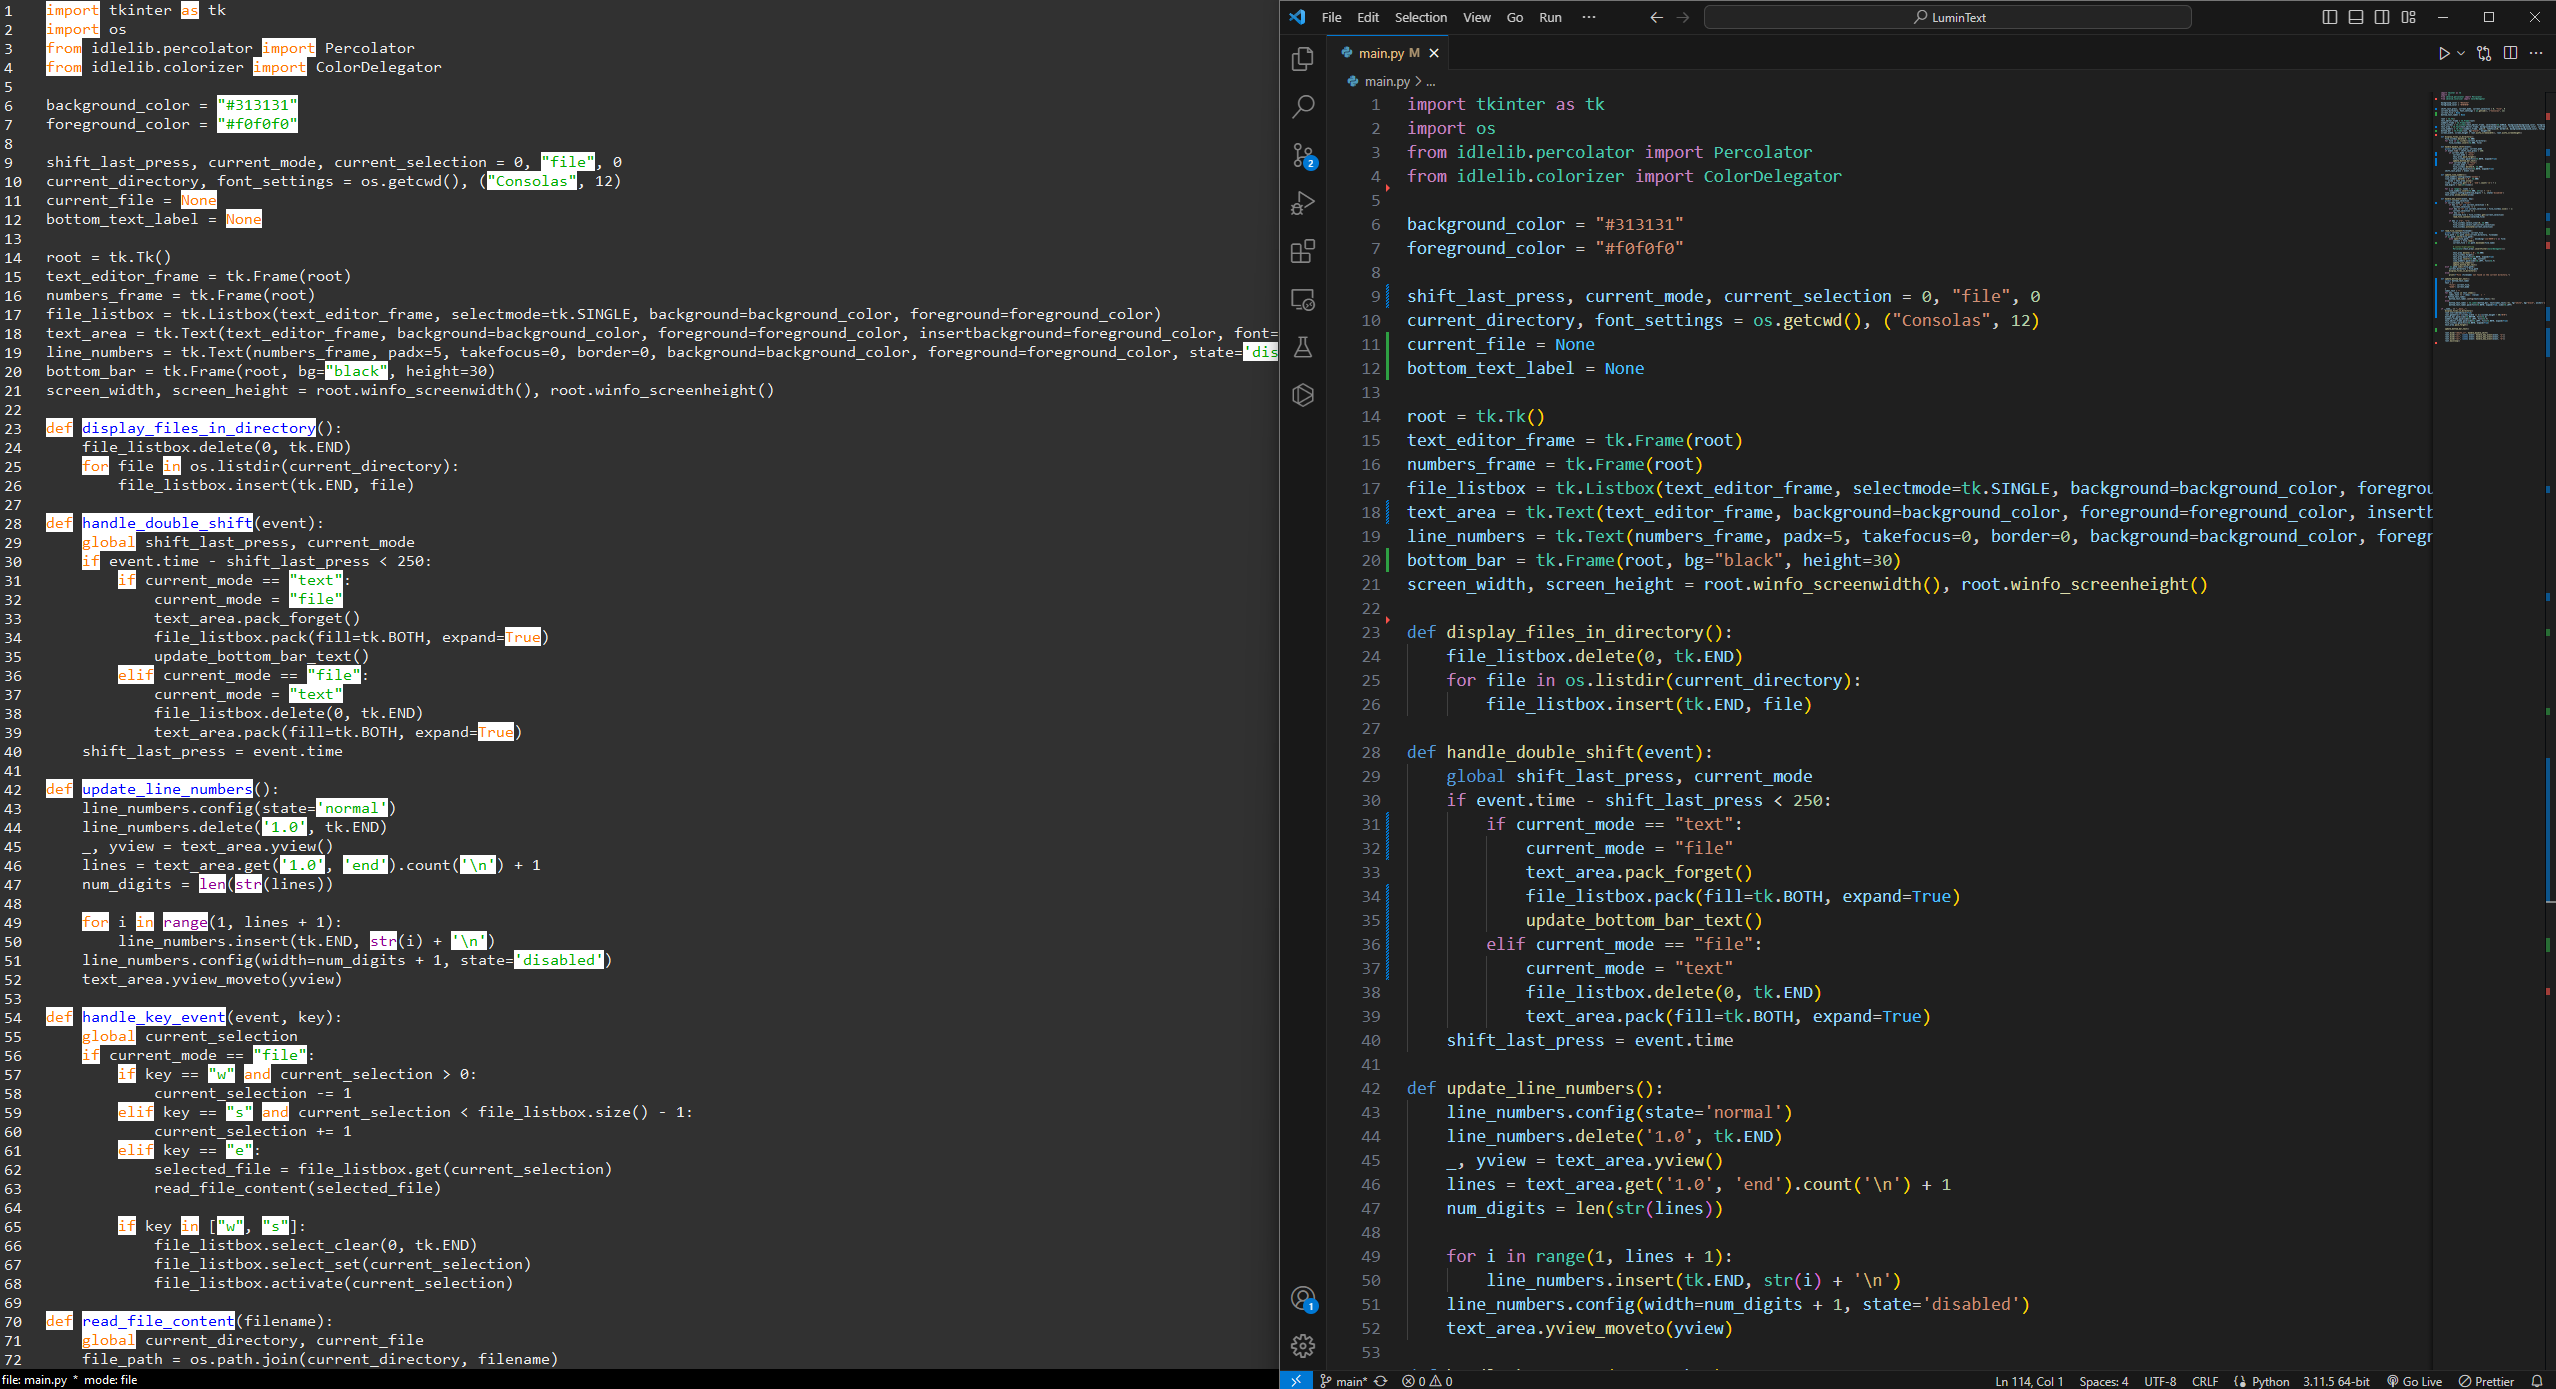
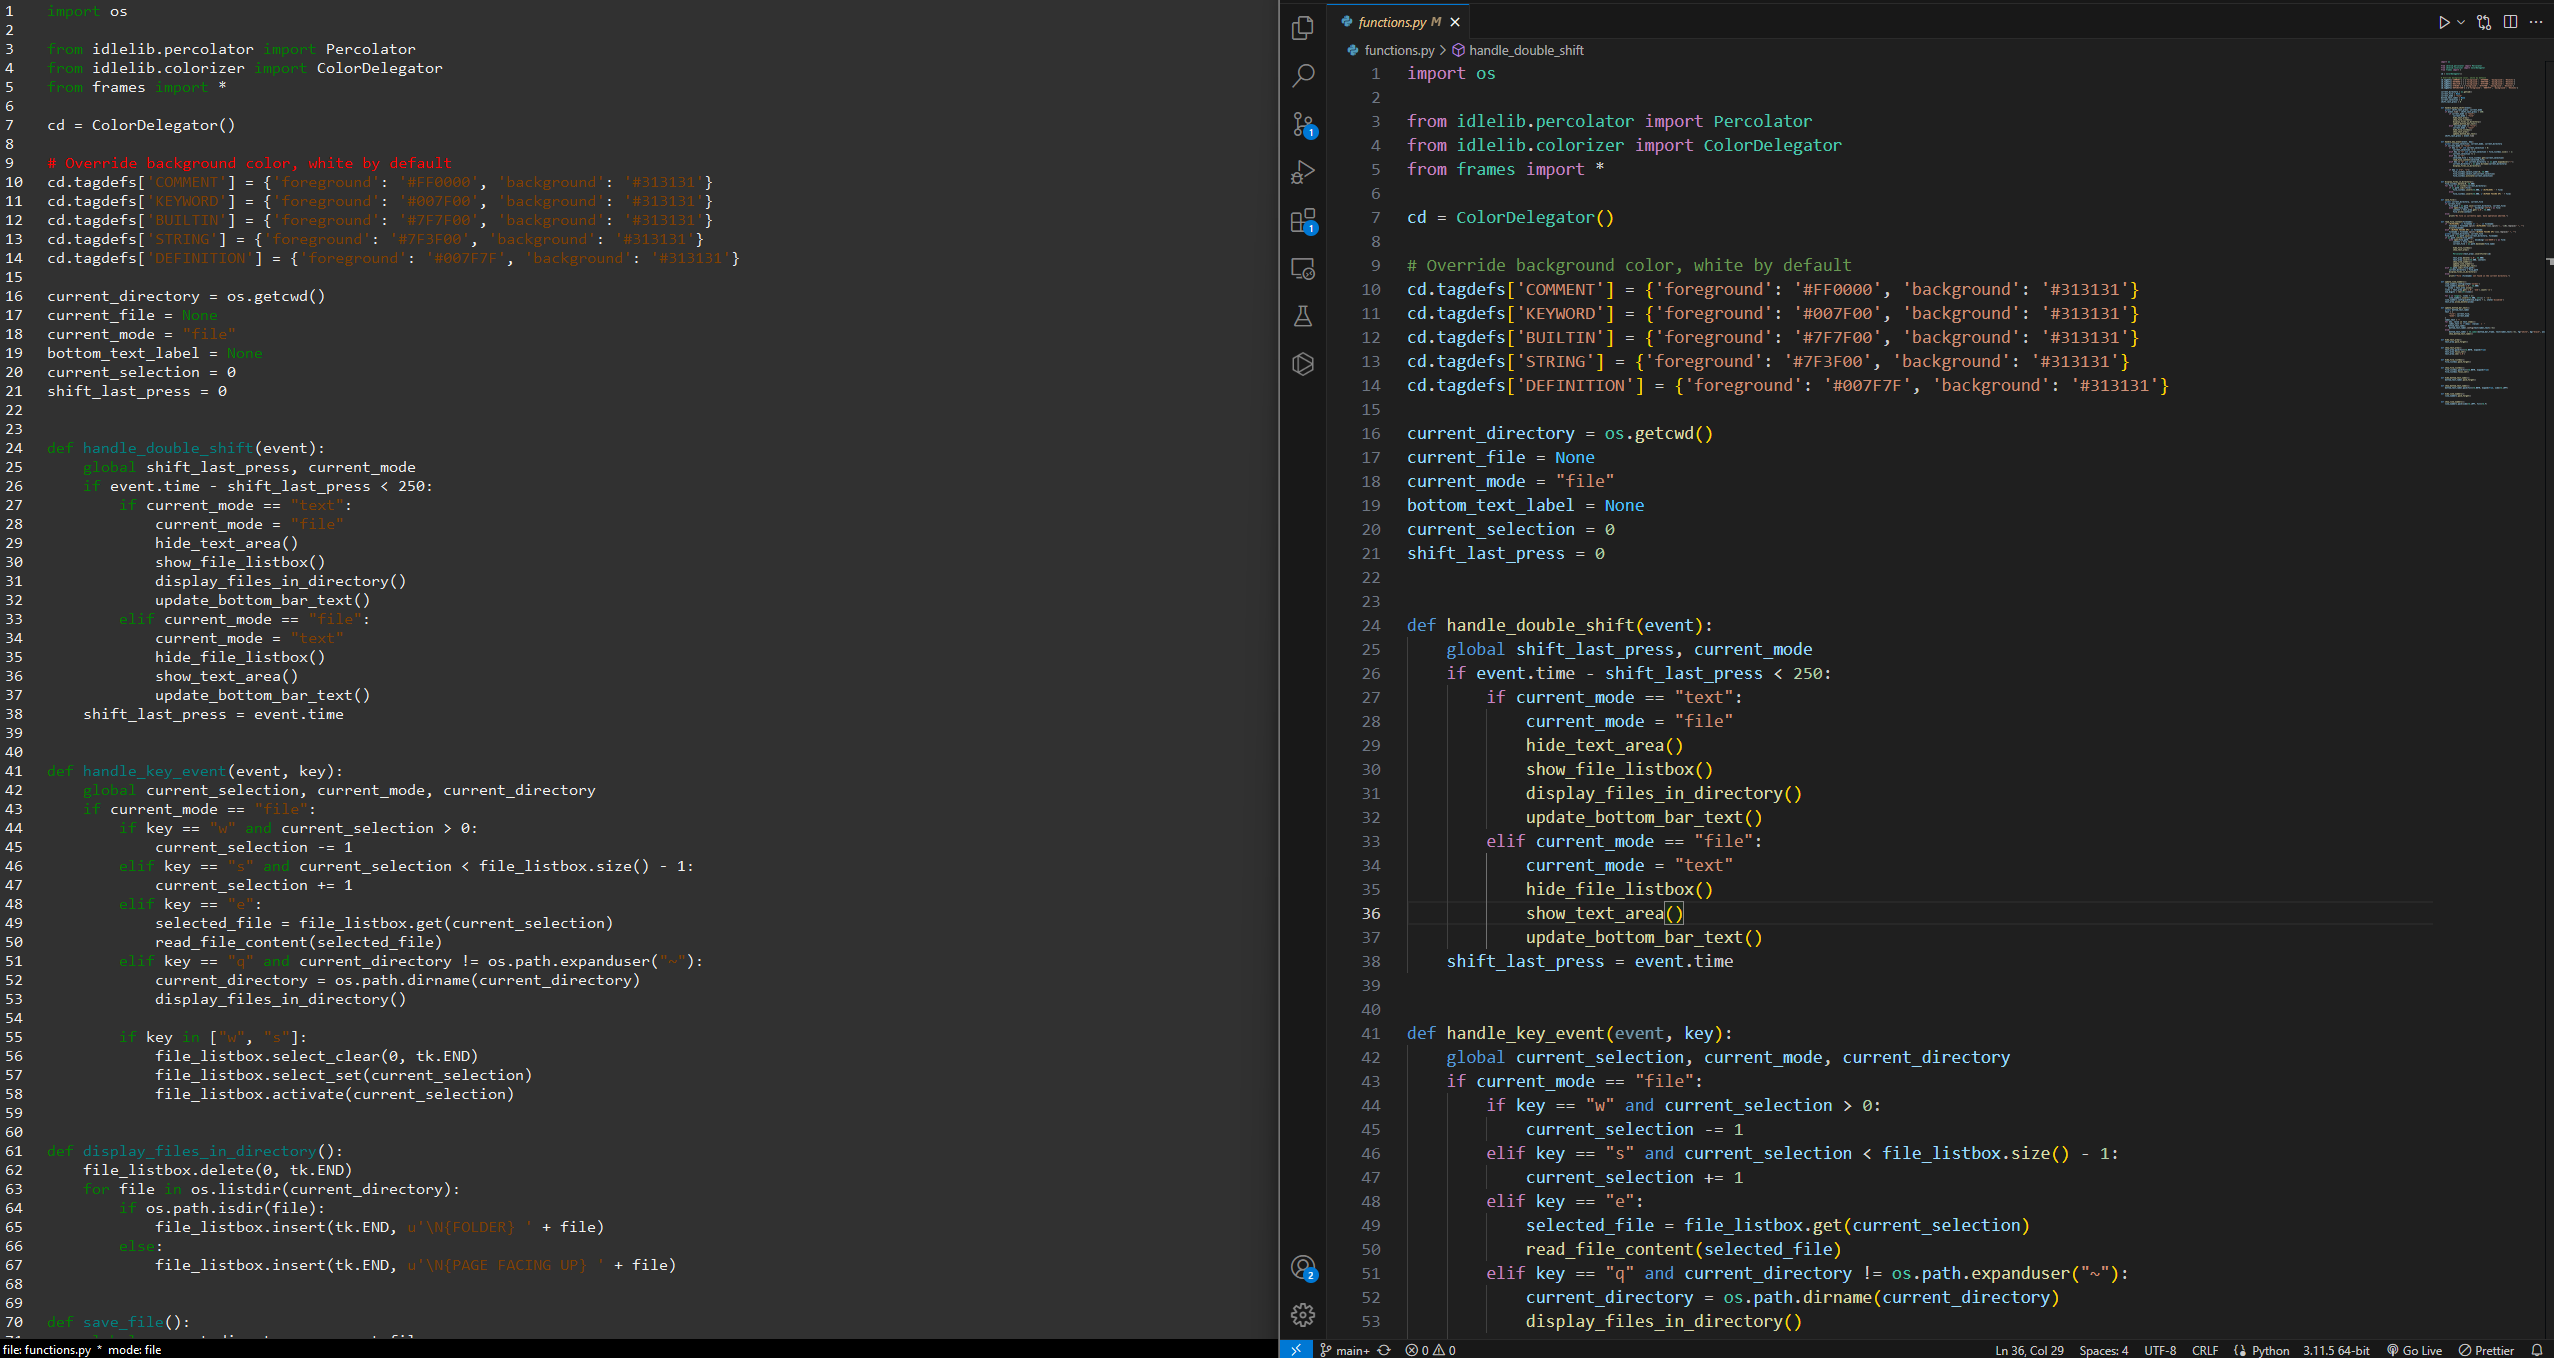
fix syntax highlighting and update preview image

diff --git a/functions.py b/functions.py
@@ -4,6 +4,15 @@ from idlelib.percolator import Percolator
 from idlelib.colorizer import ColorDelegator
 from frames import *
 
+cd = ColorDelegator()
+
+# Override background color, white by default
+cd.tagdefs['COMMENT'] = {'foreground': '#FF0000', 'background': '#313131'}
+cd.tagdefs['KEYWORD'] = {'foreground': '#007F00', 'background': '#313131'}
+cd.tagdefs['BUILTIN'] = {'foreground': '#7F7F00', 'background': '#313131'}
+cd.tagdefs['STRING'] = {'foreground': '#7F3F00', 'background': '#313131'}
+cd.tagdefs['DEFINITION'] = {'foreground': '#007F7F', 'background': '#313131'}
+
 current_directory = os.getcwd()
 current_file = None
 current_mode = "file"
@@ -85,8 +94,7 @@ def read_file_content(filename):
             hide_file_listbox()
             show_text_area()
 
-            percolator = Percolator(text_area)
-            percolator.insertfilter(ColorDelegator())
+            Percolator(text_area).insertfilter(cd)
 
             text_area.delete('1.0', tk.END)
             text_area.insert(tk.END, content)

diff --git a/README.md b/README.md
@@ -3,7 +3,7 @@
 LuminText is a simple and intuitive text editor built using Python's tkinter library. It provides a user-friendly interface for creating and editing text files, along with basic file management functionalities. With its minimalist design and essential features, LuminText offers a hassle-free experience for users to write and edit text conveniently.
 
 ![preview](./resources/preview.png)
-Image of an early version compared to VSCode.
+Comparison to VSCode.
 
 ## Features
 
